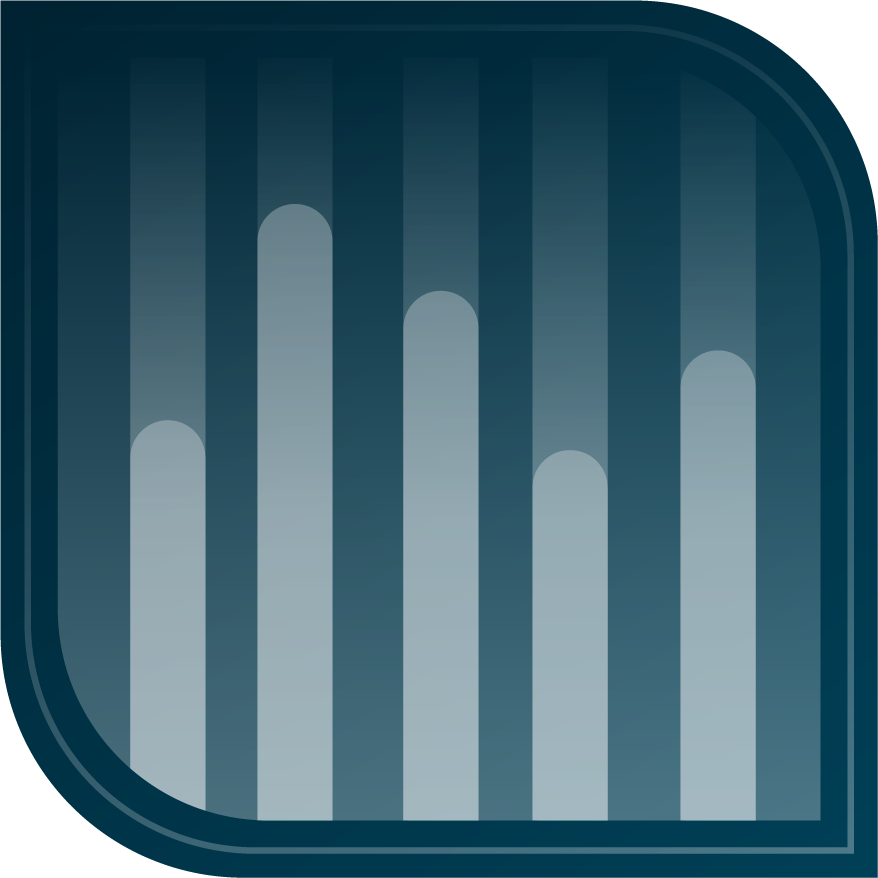
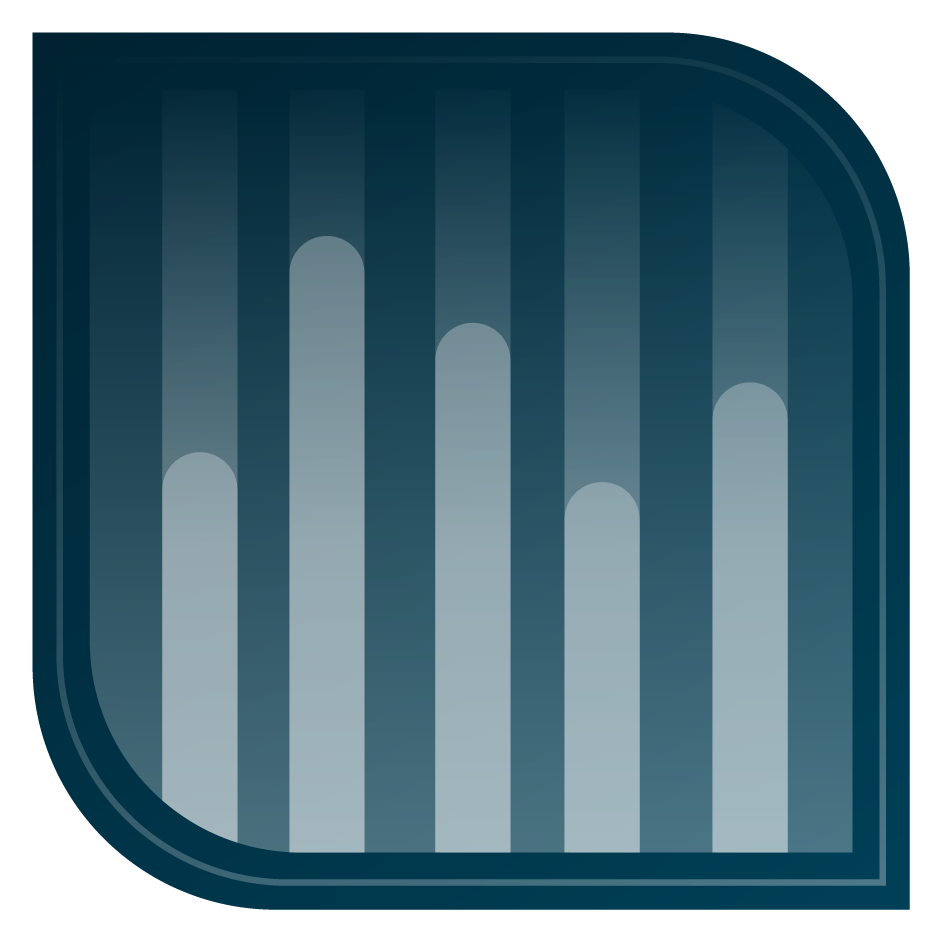
Update all UI

Changed region(s): [[0.0, 0.0, 1.0, 1.0]]

diff --git a/frontend/src/components/FormExtra.js b/frontend/src/components/FormExtra.js
@@ -1,6 +1,6 @@
 export default function FormExtra(){
         return(
-                <div className="flex items-center justify-between ">
+                <div className="flex items-center justify-between">
                 <div className="flex items-center">
                     <input
                         id="remember-me"
@@ -9,13 +9,13 @@ export default function FormExtra(){
                         className="h-4 w-4"
                     />
 
-                    <label htmlFor="remember-me" className="ml-2 block text-sm text-white drop-shadow-lg">
-                        Remember me
+                    <label htmlFor="remember-me" className="text-1xl ml-2 text-white rounded-lg border-gray-300 focus:ring-cyan-600">
+                        Don't ask again
                     </label>
                 </div>
 
-                <div className="text-sm">
-                    <a href="/forget" className="font-medium text-neutral-300 hover:text-cyan-200 drop-shadow-lg">
+                <div>
+                    <a href="/forget" className="text-1xl text-neutral-300 hover:text-cyan-200 drop-shadow-lg">
                         Forgot your password?
                     </a>
                 </div>

diff --git a/frontend/src/components/Input.js b/frontend/src/components/Input.js
@@ -1,4 +1,4 @@
-const fixedInputClass="rounded-xl appearance-none relative block w-full px-3 py-2 border border-gray-300 placeholder-gray-500 text-gray-900 focus:outline-none focus:ring-purple-700 focus:border-purple-500 focus:z-10 sm:text-sm"
+const fixedInputClass="rounded-xl appearance-none relative block w-full px-3 py-2 border border-gray-300 placeholder-gray-500 text-gray-900 focus:outline-none focus:ring-cyan-700 focus:border-cyan-300 focus:z-10 sm:text-sm"
 
 export default function Input({
     handleChange,
@@ -14,9 +14,11 @@ export default function Input({
 }){
     return(
         <div className="my-5">
+
             <label htmlFor={labelFor} className="sr-only">
               {labelText}
             </label>
+
             <input
               onChange={handleChange}
               value={value}
@@ -27,6 +29,7 @@ export default function Input({
               className={fixedInputClass+customClass}
               placeholder={placeholder}
             />
+
           </div>
     )
 }

diff --git a/frontend/src/components/Header.js b/frontend/src/components/Header.js
@@ -8,12 +8,14 @@ export default function Header({
 }){
     return(
         <div className="mb-10">
-            <h2 className="mt-6 text-center text-3xl font-extrabold text-white drop-shadow-lg">
+            <h2 className="mt-6 text-center text-4xl font-extrabold text-white drop-shadow-lg">
                 {heading}
             </h2>
-            <p className="text-center text-sm text-white mt-5">
+
+            <p className="text-center text-semibold text-2xl text-white mt-5">
             {paragraph} {' '}
-            <Link to={linkUrl} className="font-medium text-neutral-300 hover:text-cyan-200 drop-shadow-lg">
+
+            <Link to={linkUrl} className="font-bold text-neutral-300 hover:text-cyan-200 drop-shadow-lg">
                 {linkName}
             </Link>
             </p>

diff --git a/frontend/src/components/Login.js b/frontend/src/components/Login.js
@@ -25,6 +25,20 @@ export default function Login(){
     //Handle Login API Integration here
     const authenticateUser = () =>{
 
+        // const endpoint=`https://api.loginradius.com/identity/v2/auth/login?apikey=${apiKey}`;
+        //  fetch(endpoint,
+        //      {
+        //      method:'POST',
+        //      headers: {
+        //      'Content-Type': 'application/json'
+        //      },
+        //      body:JSON.stringify(loginFields)
+        //      }).then(response=>response.json())
+        //      .then(data=>{
+        //         //API Success from LoginRadius Login API
+        //      })
+        //      .catch(error=>console.log(error))
+
     }
 
     return(

diff --git a/frontend/src/pages/Forget.js b/frontend/src/pages/Forget.js
@@ -1,10 +1,16 @@
 import React from "react";
 import Header from "../components/Header";
 import Forget from "../components/Forget";
+import forgot_icon from '../images/forgot_icon.png';
 
 export default function ForgetPage() {
     return (
         <>
+            <img
+                alt=""
+                className="h-14 w-14 mx-auto"
+                src={forgot_icon}/>
+
             <Header heading="Forget your account?"
               paragraph="Already have an account?"
               linkName="Login"

diff --git a/frontend/src/pages/Signup.js b/frontend/src/pages/Signup.js
@@ -1,9 +1,15 @@
 import Header from "../components/Header";
 import Signup from "../components/Signup";
+import signup_icon from '../images/signup_icon.png';
 
 export default function SignupPage(){
     return(
         <>
+            <img
+                alt=""
+                className="h-14 w-14 mx-auto"
+                src={signup_icon}/>
+
             <Header
               heading="Signup to create an account"
               paragraph="Already have an account?"

diff --git a/frontend/src/pages/Login.js b/frontend/src/pages/Login.js
@@ -1,9 +1,15 @@
 import Header from "../components/Header"
 import Login from "../components/Login"
+import login_icon from '../images/login_icon.png';
 
 export default function LoginPage(){
     return(
         <>
+            <img
+                alt=""
+                className="h-14 w-14 mx-auto"
+                src={login_icon}/>
+
         <Header
                 heading="Login to your account"
                 paragraph="Don't have an account yet?"

diff --git a/frontend/src/pages/Logo.js b/frontend/src/pages/Logo.js
@@ -4,10 +4,10 @@ import logoMain from '../images/DataVizX.png';
 const Logo = () => {
   return (
     <div className="flex flex-row">
-        <div className="py-8">
+        <div className="py-6 px-5">
                 <img
                     alt="DataVizX Logo"
-                    className="h-20 w-20"
+                    className="h-24 w-24"
                     src={logoMain}/>
         </div>
 

diff --git a/frontend/src/App.js b/frontend/src/App.js
@@ -12,6 +12,7 @@ import Logo from './pages/Logo';
 function App() {
   return (
     <div className="grid grid-cols-2 h-screen">
+
       <div className="my-auto mx-auto">
           <Logo>
           </Logo>
@@ -28,6 +29,7 @@ function App() {
             </BrowserRouter>
           </div>
       </div>
+
     </div>
 
   );

diff --git a/frontend/src/components/FormAction.js b/frontend/src/components/FormAction.js
@@ -15,8 +15,11 @@ export default function FormAction({
             >
                 {text}
             </button>
+
             :
+
             type==='ForgotPassword' ?
+
             <form onSubmit={handleSubmit}>
                 <button
                     type={action}

diff --git a/frontend/tailwind.config.js b/frontend/tailwind.config.js
@@ -14,6 +14,8 @@ module.exports = {
       '10xl': '6.052rem',
     }
   },
-  plugins: [],
+  plugins: [
+    require('@tailwindcss/forms'),
+  ],
 }
 
